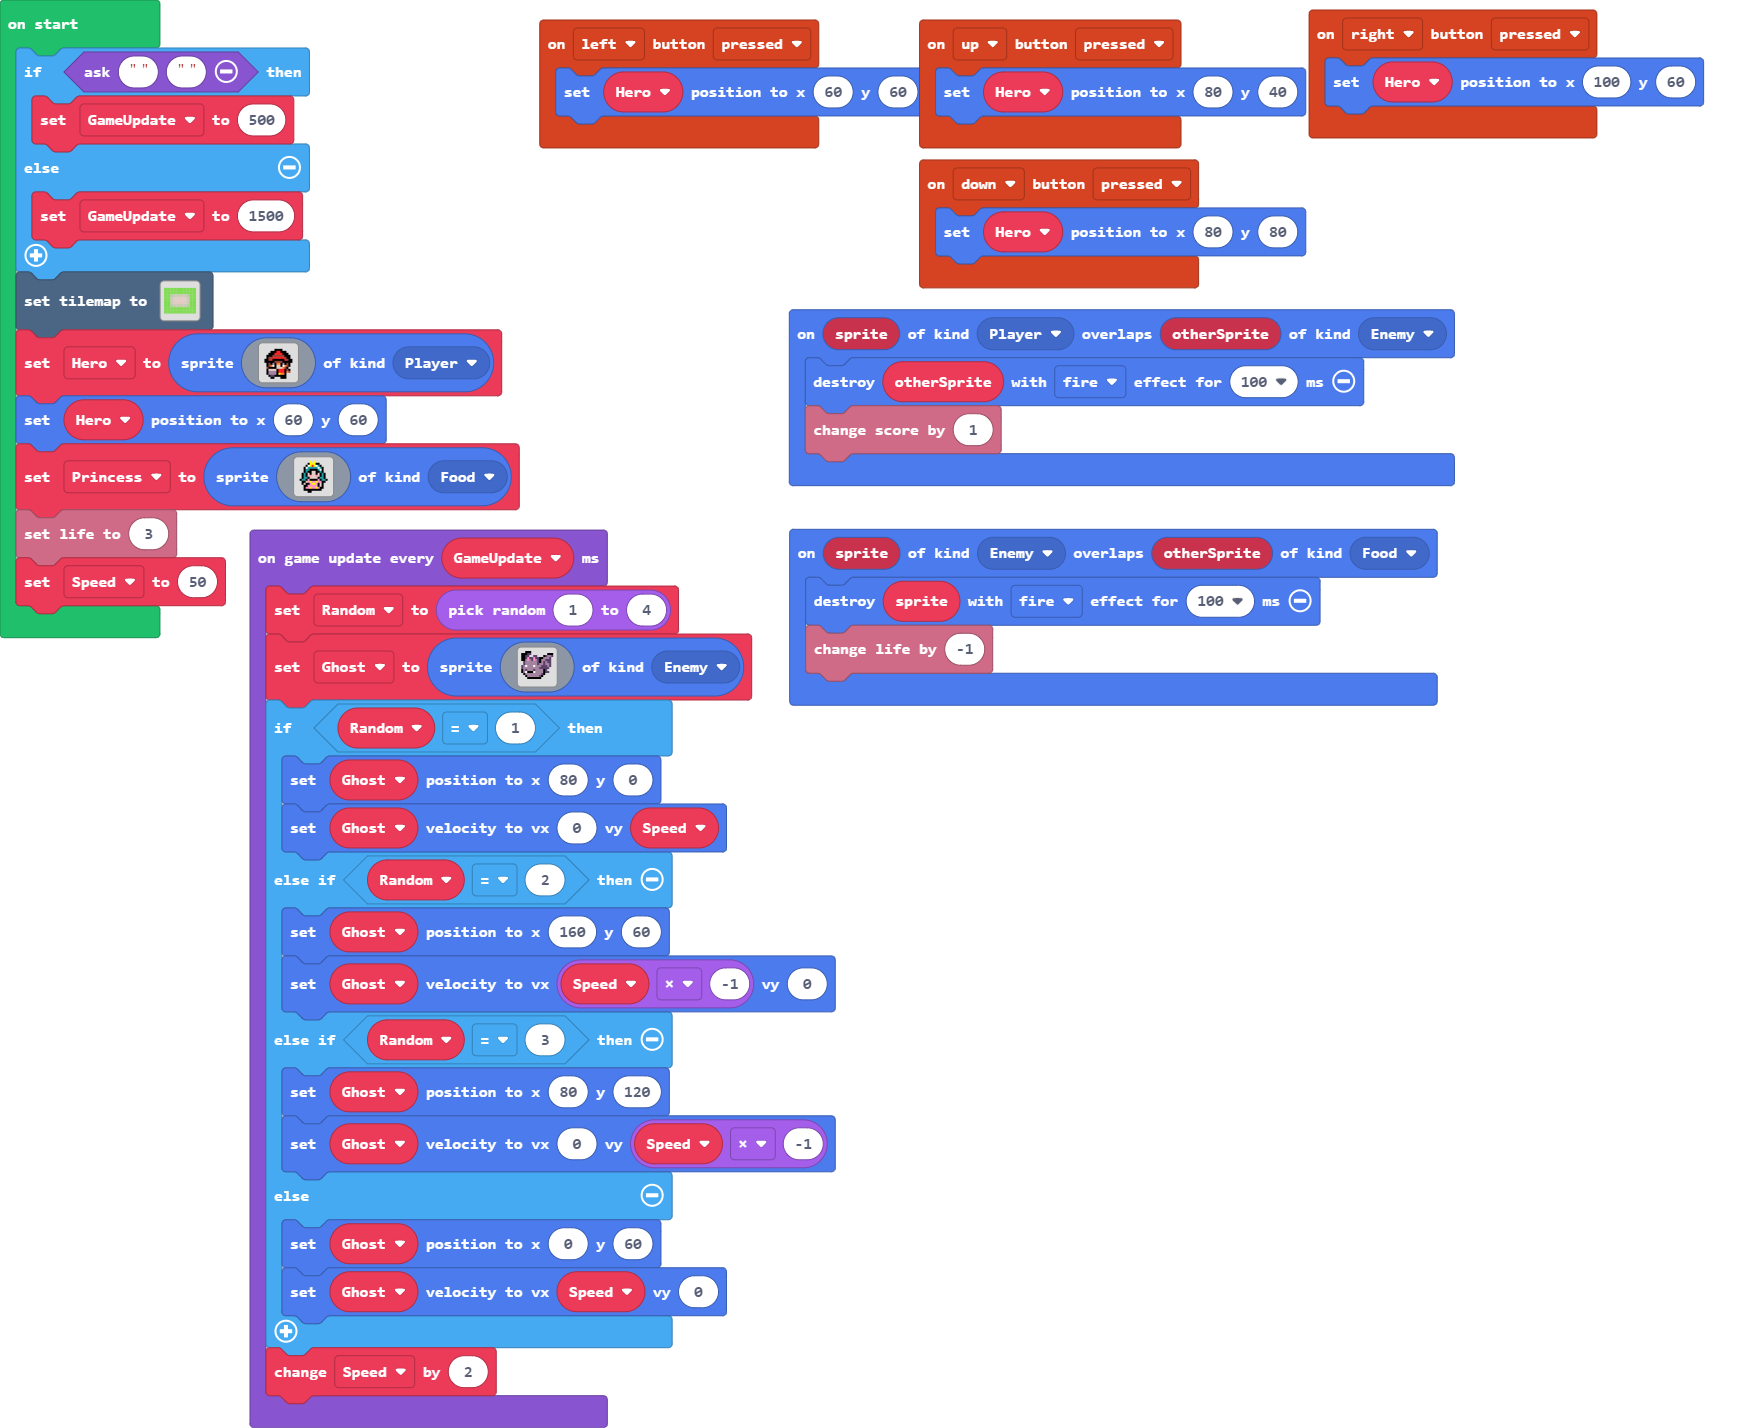
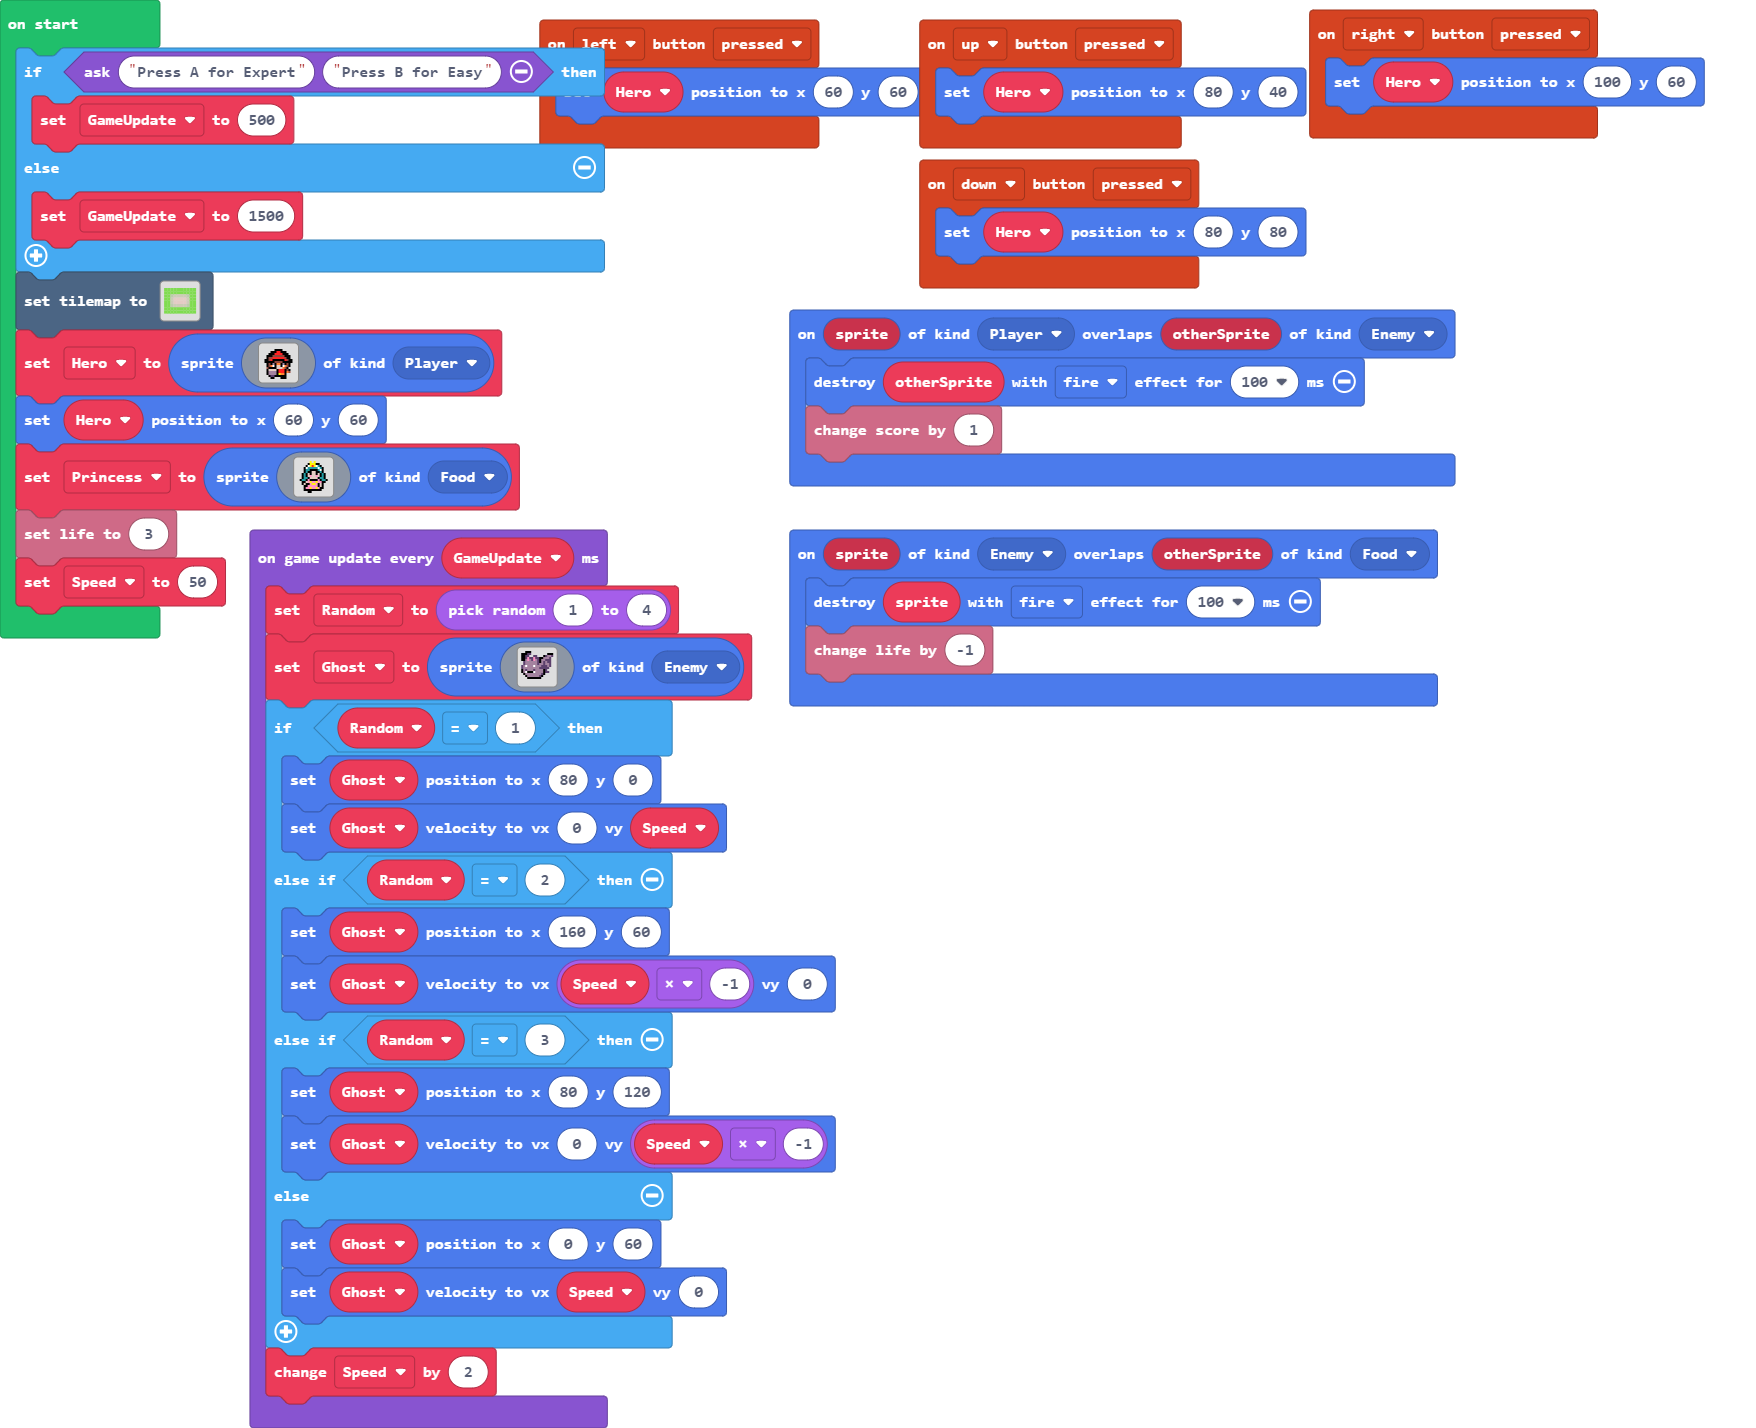
Update main.blocks, main.ts

diff --git a/main.ts b/main.ts
@@ -22,7 +22,7 @@ let Ghost: Sprite = null
 let Random = 0
 let Hero: Sprite = null
 let GameUpdate = 0
-if (game.ask("", "")) {
+if (game.ask("Press A for Expert", "Press B for Easy")) {
     GameUpdate = 500
 } else {
     GameUpdate = 1500
